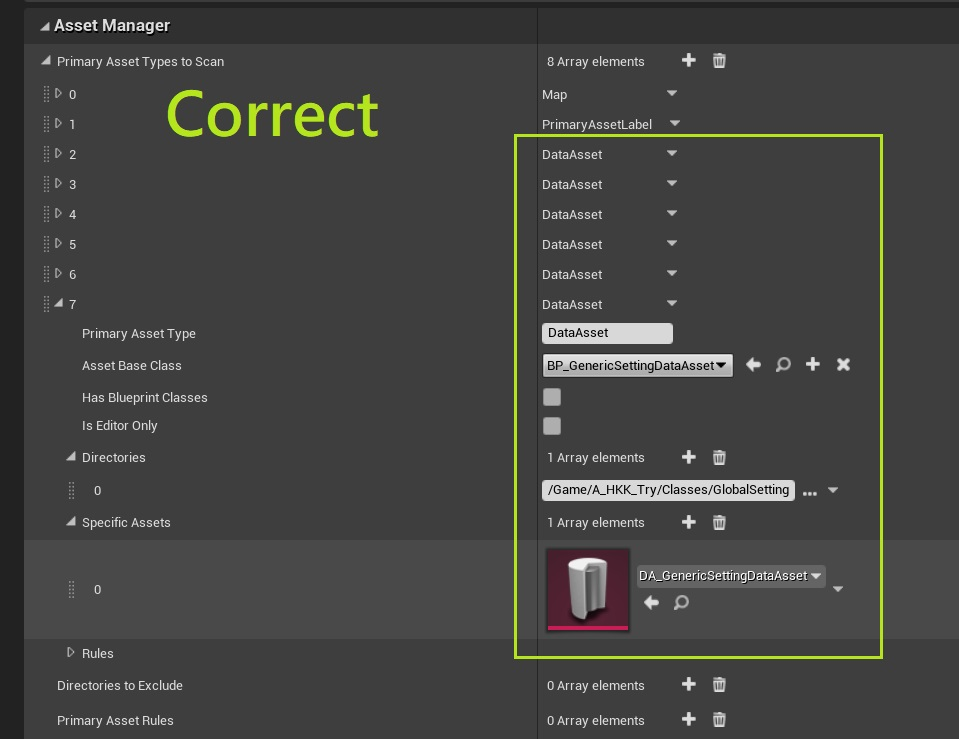
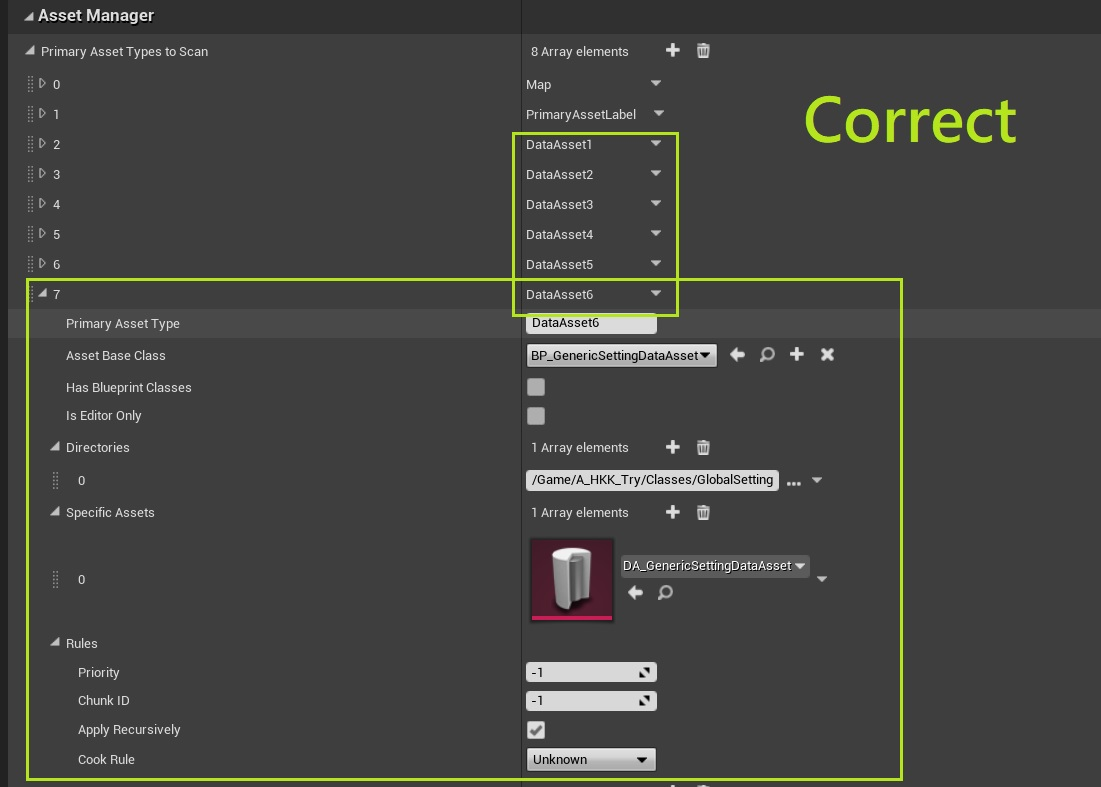
2021-0724 1.專案設置

diff --git a/docs/blender-modeling.md b/docs/blender-modeling.md
@@ -53,7 +53,7 @@
 ## 異常排除
 1. 有時看起來很規律的模型，在施用modifier（ex：subdivision）後，在某些點行為異常，那麼這可能在建模上有些問題，這可以在Edit Mode底下使用Select All by Trait，然後在點線面模式間切換觀察。
 2. Blender的face如果vertex超過4個點可能會有些奇怪問題，比如成面時可能會略過某些點。(vertxt選取順序似乎也會影響成面演算法)
-3. 輸出至遊戲引擎，若有些面看不到，則有可能是因為Normal方向相反所致。在Blender中可以勾選Face Orientation查詢，藍色指外紅色指內。
+3. 輸出至遊戲引擎，若有些面看不到，則有可能是因為Normal方向相反所致。在Blender中可以勾選Face Orientation查詢，藍色指外紅色指內。（調整：Edit Mode=>Mesh=>Normals）
 4. 輸入至遊戲引擎會四邊形（或>=4）會被自動轉換成三角形，此過程中可能因Normal計算錯誤而導致有些面看不到，故若有問題須在Blender處加上traianguate modifier後再輸出。   
 
 [ref1](https://blender.stackexchange.com/questions/80455/strange-bug-with-the-subdivision-surface-modifier)

diff --git a/docs/實作/evil-zombie.md b/docs/實作/evil-zombie.md
@@ -1,4 +1,21 @@
 # Evil Zombie
+版本4.26
+
+## 專案設置
+在Mirgrate時會用上，須皆配置正確才能正常運作。
+### Project Setting
+1. Collision => Object Channels => 新增Interactable，Default Response為Block。
+2. Collision => Trace Channels => 新增Projectile，Default Response為Ignore。
+3. Asset Manager填用到的DataAssets（這樣在Android才不會在某些地方遺失預設值）
+4. Input（從原專案Input頁Export出來）
+5. Navigation Mesh => RunTime => Runtime Generation => Dynamic
+6. 於Maps & Modes中，Game instance設置XhGameInstance，起始地圖設MainPage。
+
+### Plugins
+1. Firebase - Features
+2. HDRIBackdrop
+
+### 其他
 
 ## 場景
 ### 地圖配置
